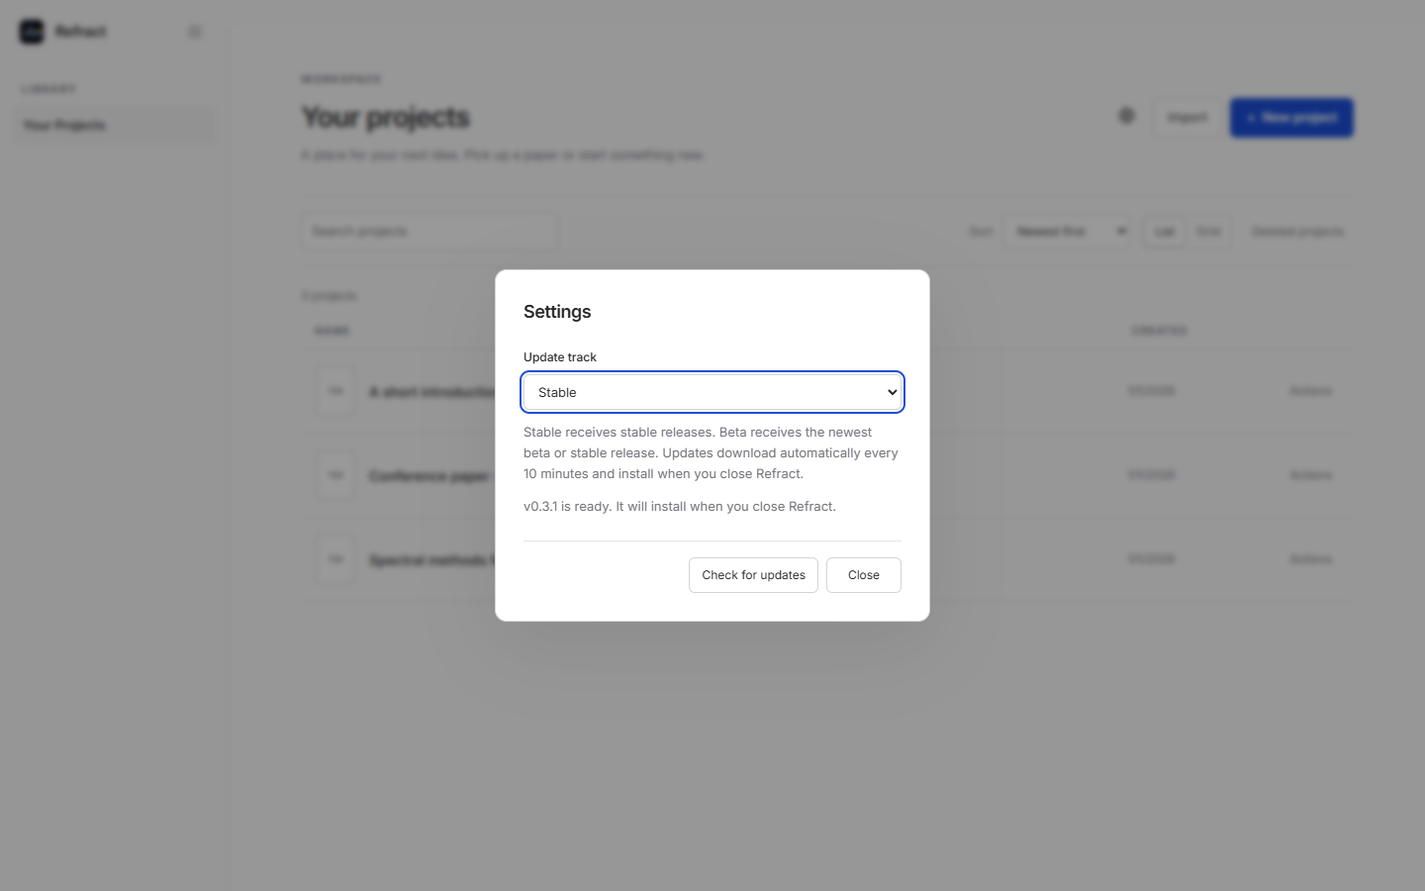
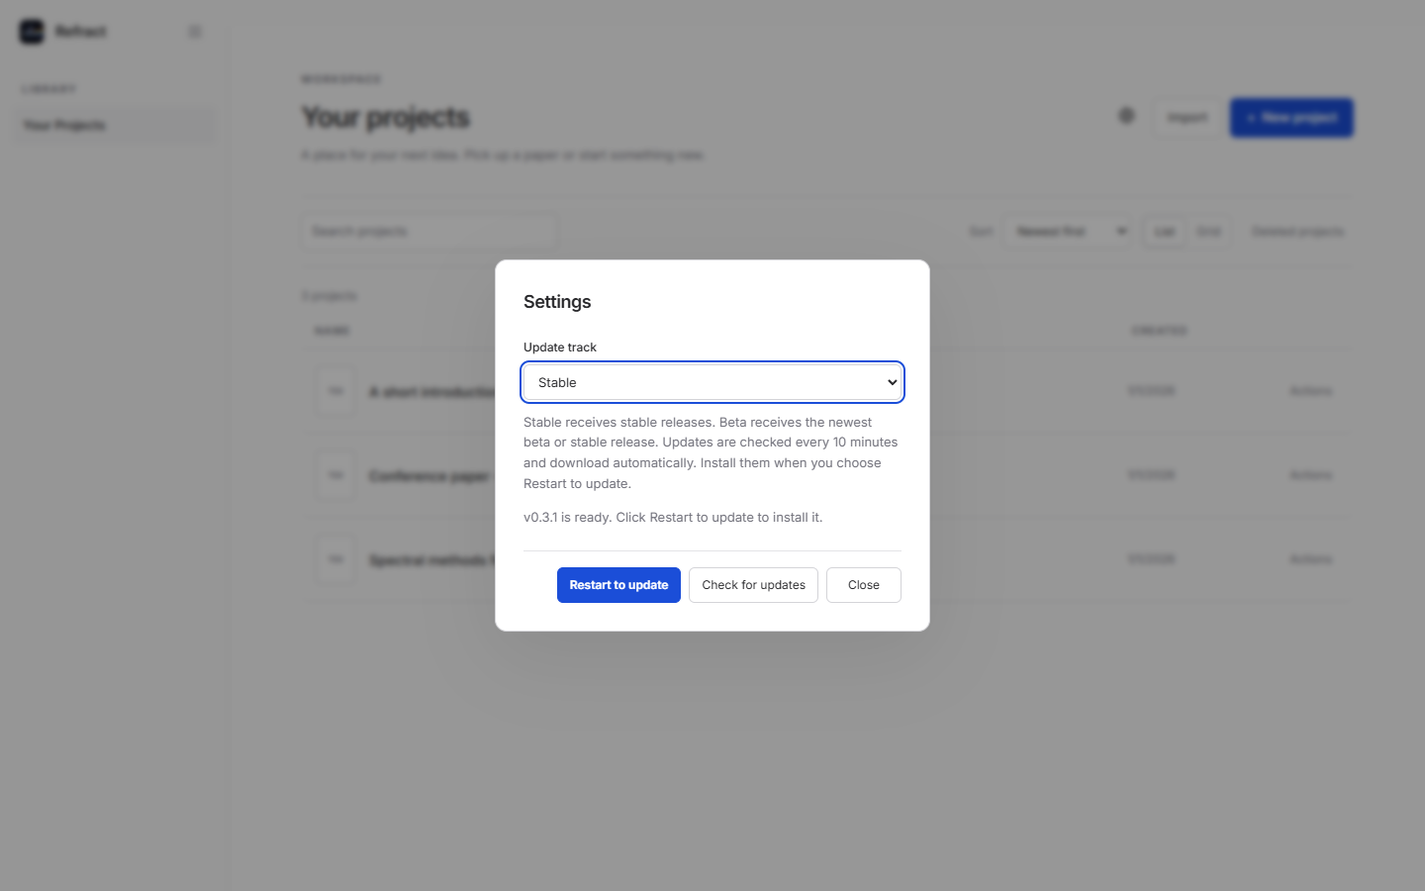
Require explicit Restart to update instead of installing on exit

Changed region(s): [[0.3438, 0.28, 0.6562, 0.5911], [0.3438, 0.6222, 0.6562, 0.7156]]

diff --git a/index.html b/index.html
@@ -3,4 +3,4 @@
 <body inert><header class="app-titlebar" aria-hidden="true"></header>
 <aside id="project-navigation" class="sidebar"><div class="brand"><button id="home" class="brand-home" aria-label="Your Projects"><img src="logo.png" alt=""><span>Refract</span></button><button class="icon" aria-label="Collapse sidebar" id="collapse">☰</button></div><div id="home-side"><div class="sidebar-label">Library</div><button class="nav selected">Your Projects</button></div><div id="project-side" hidden><button id="project-name" class="project-name"></button><div class="tabs"><button id="files-tab" aria-pressed="true" class="active">Files</button><button id="chats-tab" aria-pressed="false">Chats</button><span></span><button id="file-search-toggle" title="Search" aria-label="Search files">&#8981;</button><button id="add-file" aria-label="Add file or folder" title="Add file or folder">＋</button></div><div id="file-search" hidden><input id="file-search-input" aria-label="Search project" placeholder="Search"><div id="file-search-results"></div></div><div id="file-list"></div><div id="outline"><button id="outline-toggle" class="outline-label" aria-expanded="true">⌄ &nbsp;Outline</button><div id="outline-list"></div></div><div id="chat-list" hidden></div><div class="sidebar-footer"><button id="deleted-files">Deleted files</button> <button id="duplicate">Duplicate</button></div></div><div id="sidebar-resize" class="resize-handle vertical" role="separator" tabindex="0" aria-label="Resize sidebar" aria-orientation="vertical"></div></aside>
 <main><section id="projects"><header class="project-header"><div class="project-header-top"><div><div class="eyebrow">WORKSPACE</div><h1>Your projects</h1><p>A place for your next idea. Pick up a paper or start something new.</p></div><div class="project-header-actions"><button id="settings" class="icon settings-trigger" aria-label="Settings" title="Settings"><svg aria-hidden="true" viewBox="0 0 24 24" width="20" height="20" fill="none" stroke="currentColor" stroke-width="1.8" stroke-linecap="round" stroke-linejoin="round"><path d="m9 3-1 3-3 1-2 3 2 2-1 3 2 3 3-1 2 3h3l1-3 3-1 2-3-2-2 1-3-2-3-3 1-2-3z"/><circle cx="11.5" cy="11.5" r="3"/></svg></button><button id="import" class="secondary">Import</button><button id="new" class="primary">&#43; &nbsp;New project</button></div></div><div class="project-controls"><input id="search" placeholder="Search projects" aria-label="Search"><label for="project-sort">Sort</label><select id="project-sort" aria-label="Sort projects"><option value="newest">Newest first</option><option value="oldest">Oldest first</option><option value="name">Name</option><option value="edited">Recently edited</option></select><div class="view-switch" aria-label="Project view"><button id="list-view" aria-pressed="true" class="view-toggle selected" aria-label="List view" title="List view">List</button><button id="grid-view" aria-pressed="false" class="view-toggle" aria-label="Grid view" title="Grid view">Grid</button></div><button id="deleted-projects" class="plain">Deleted projects</button></div></header><div id="project-count" class="project-count" role="status" aria-live="polite"></div><div class="table-head"><span>Name</span><span>Created</span></div><div id="list"></div><div id="empty" class="project-empty" hidden><div class="empty-symbol" aria-hidden="true"><svg viewBox="0 0 24 24" fill="none" stroke="currentColor" stroke-width="1.6"><path d="M3 6.5h6l2 2h10v9.5a2 2 0 0 1-2 2H5a2 2 0 0 1-2-2z"/><path d="M12 11v6m-3-3h6"/></svg></div><h2>Make space for your ideas</h2><p>Create your first project to start writing and compiling LaTeX.</p><button id="start" class="primary">Start from Scratch</button></div><div id="no-results" class="project-empty" hidden><div class="empty-symbol" aria-hidden="true"><svg viewBox="0 0 24 24" fill="none" stroke="currentColor" stroke-width="1.6"><circle cx="10.5" cy="10.5" r="6.5"/><path d="m15.5 15.5 4.5 4.5"/></svg></div><h2>No projects found</h2><p>Try a different search or clear your filter.</p><button id="clear-search" class="secondary">Clear search</button></div></section>
-<section id="workspace" hidden><div id="editor-pane" class="editor-pane"><header class="editor-header"><div id="file-tabs" class="file-tabs"></div><span class="spacer"></span><button id="toggle-agent" class="plain" type="button" aria-label="Hide agent menu" aria-pressed="false" title="Hide agent menu">Hide agent</button><button id="tools" class="plain">Tools ▾</button></header><div class="editor-wrap"><div id="numbers" aria-hidden="true"></div><div id="image-preview" hidden><img id="project-image" alt="Project image"></div><div id="file-preview" hidden></div><div class="source-container"><pre id="highlight" aria-hidden="true"></pre><div id="active-line" aria-hidden="true"></div><textarea spellcheck="false" aria-label="Editor content" id="source"></textarea></div></div><div id="chat" class="chat"><div id="chat-resize" class="resize-handle horizontal" role="separator" tabindex="0" aria-label="Resize chat" aria-orientation="horizontal"></div><div class="chat-header"><div class="new-chat-action"><button id="new-chat" class="icon" aria-label="New chat">&#43;</button><span class="new-chat-tooltip" aria-hidden="true">New chat</span></div></div><div id="chat-messages"><strong>Welcome to Refract!</strong><p>Refract helps you write and refine LaTeX—and supports your research with explanations, proofs, citations, and summaries. Ask it anything or upload images.</p></div><div class="composer"><div id="attachment-list"></div><textarea id="chat-input" placeholder="Ask anything" aria-label="Ask anything"></textarea><div><button id="attach" class="icon" title="Upload files & photos" aria-label="Upload files & photos"><svg aria-hidden="true" viewBox="0 0 24 24" width="18" height="18" fill="none" stroke="currentColor" stroke-width="1.8" stroke-linecap="round" stroke-linejoin="round"><path d="M8 11V7a4 4 0 0 1 8 0v10a6 6 0 0 1-12 0V8m8 0v9a2 2 0 0 1-4 0v-6"/></svg></button><span></span><label class="provider-label" for="chat-provider">Provider</label><select id="chat-provider" aria-label="Chat provider"><option value="codex">Codex</option><option value="opencode">OpenCode</option></select><div id="model-picker"></div><button id="send" class="icon" title="Send" aria-label="Send"><svg aria-hidden="true" viewBox="0 0 24 24" width="16" height="16" fill="none" stroke="currentColor" stroke-width="3" stroke-linecap="round" stroke-linejoin="round"><path d="M5 12 12 4.5 19 12M12 4.5v15"/></svg></button></div></div></div></div><div id="workspace-resize" class="resize-handle workspace-handle" role="separator" tabindex="0" aria-label="Resize editor and PDF" aria-orientation="vertical"></div><div class="pdf-pane"><div id="pdf-content"><header><button id="compile" class="plain">Compile</button><span></span><button id="zoom-fit" class="icon" title="Zoom to fit">⛶</button><button id="download" class="icon" title="Download PDF">↓</button><button id="export-project" class="icon" title="Export project">⋯</button></header><div id="pdf-area"><div class="pdf-placeholder">PDF preview</div></div></div><div id="tools-panel" hidden><div class="tool-tabs"><button id="tool-info" aria-pressed="true">Project Info</button><button id="tool-versions" aria-pressed="false">Versions</button><button id="tool-comments" aria-pressed="false">Comments</button><button id="tool-logs" aria-pressed="false">Logs</button></div><div id="tool-body"></div></div></div></section></main><div id="folder-menu" class="file-menu" hidden><button id="folder-add">Add items</button><button id="folder-move">Move or rename folder</button><button id="folder-delete">Delete folder</button></div><div id="file-menu" class="file-menu" hidden><button id="file-rename">Rename file</button><button id="file-download">Download file</button><button id="file-delete">Delete file</button></div><dialog id="settings-dialog" aria-labelledby="settings-title"><h2 id="settings-title">Settings</h2><label for="update-track">Update track</label><select id="update-track"><option value="stable">Stable</option><option value="beta">Beta</option></select><p class="settings-description">Stable receives stable releases. Beta receives the newest beta or stable release. Updates download automatically every 10 minutes and install when you close Refract.</p><p id="update-status" role="status" aria-live="polite"></p><div class="dialog-actions"><button id="check-updates" class="secondary" type="button">Check for updates</button><button id="settings-close" class="secondary">Close</button></div></dialog><dialog id="project-trash-dialog" aria-labelledby="project-trash-dialog-title"><h2 id="project-trash-dialog-title">Deleted projects</h2><div id="project-trash-list"></div><div class="dialog-actions"><button id="project-trash-close">Close</button></div></dialog><dialog id="trash-dialog" aria-labelledby="trash-dialog-title"><h2 id="trash-dialog-title">Deleted files</h2><div id="trash-list"></div><div class="dialog-actions"><button id="trash-close">Close</button></div></dialog><dialog id="folder-move-dialog" aria-labelledby="folder-move-dialog-title"><form method="dialog"><h2 id="folder-move-dialog-title">Move or rename folder</h2><label for="folder-move-path">New project path</label><input id="folder-move-path" aria-label="New folder path" required><div class="dialog-actions"><button value="cancel" formnovalidate>Cancel</button><button value="move" class="primary">Move</button></div></form></dialog><dialog id="rename-file-dialog" aria-labelledby="rename-file-dialog-title"><form method="dialog"><h2 id="rename-file-dialog-title">Rename file</h2><input id="rename-file-name" aria-label="File name" required><div class="dialog-actions"><button value="cancel" formnovalidate>Cancel</button><button value="rename" class="primary">Rename</button></div></form></dialog><dialog id="rename-dialog" aria-labelledby="rename-dialog-title"><form method="dialog"><h2 id="rename-dialog-title">Rename project</h2><label for="rename-name">Project name</label><input id="rename-name" aria-label="Project name" required><div class="dialog-actions"><button value="cancel" formnovalidate>Cancel</button><button value="rename" class="primary">Rename</button></div></form></dialog><dialog id="file-dialog" aria-labelledby="file-dialog-title"><form method="dialog"><h2 id="file-dialog-title">New file</h2><label for="file-destination">Folder</label><select id="file-destination" aria-label="Destination folder"></select><label for="file-name">File name</label><input id="file-name" placeholder="e.g. references.bib" required><details class="file-alternatives"><summary>More file options</summary><div class="file-alternative-actions"><button value="folder">Create folder</button><button value="upload" formnovalidate>Upload file</button><button value="upload-folder" formnovalidate>Upload folder</button></div></details><div class="dialog-actions"><button value="cancel" formnovalidate>Cancel</button><button value="create" class="primary">Create file</button></div></form></dialog><dialog id="chat-image-dialog" class="chat-image-dialog" aria-label="Image preview"><button id="chat-image-close" type="button" aria-label="Close image preview">&times;</button><img id="chat-image-full" alt=""></dialog><script src="renderer.js"></script><script src="model-picker.js"></script></body></html>
+<section id="workspace" hidden><div id="editor-pane" class="editor-pane"><header class="editor-header"><div id="file-tabs" class="file-tabs"></div><span class="spacer"></span><button id="toggle-agent" class="plain" type="button" aria-label="Hide agent menu" aria-pressed="false" title="Hide agent menu">Hide agent</button><button id="tools" class="plain">Tools ▾</button></header><div class="editor-wrap"><div id="numbers" aria-hidden="true"></div><div id="image-preview" hidden><img id="project-image" alt="Project image"></div><div id="file-preview" hidden></div><div class="source-container"><pre id="highlight" aria-hidden="true"></pre><div id="active-line" aria-hidden="true"></div><textarea spellcheck="false" aria-label="Editor content" id="source"></textarea></div></div><div id="chat" class="chat"><div id="chat-resize" class="resize-handle horizontal" role="separator" tabindex="0" aria-label="Resize chat" aria-orientation="horizontal"></div><div class="chat-header"><div class="new-chat-action"><button id="new-chat" class="icon" aria-label="New chat">&#43;</button><span class="new-chat-tooltip" aria-hidden="true">New chat</span></div></div><div id="chat-messages"><strong>Welcome to Refract!</strong><p>Refract helps you write and refine LaTeX—and supports your research with explanations, proofs, citations, and summaries. Ask it anything or upload images.</p></div><div class="composer"><div id="attachment-list"></div><textarea id="chat-input" placeholder="Ask anything" aria-label="Ask anything"></textarea><div><button id="attach" class="icon" title="Upload files & photos" aria-label="Upload files & photos"><svg aria-hidden="true" viewBox="0 0 24 24" width="18" height="18" fill="none" stroke="currentColor" stroke-width="1.8" stroke-linecap="round" stroke-linejoin="round"><path d="M8 11V7a4 4 0 0 1 8 0v10a6 6 0 0 1-12 0V8m8 0v9a2 2 0 0 1-4 0v-6"/></svg></button><span></span><label class="provider-label" for="chat-provider">Provider</label><select id="chat-provider" aria-label="Chat provider"><option value="codex">Codex</option><option value="opencode">OpenCode</option></select><div id="model-picker"></div><button id="send" class="icon" title="Send" aria-label="Send"><svg aria-hidden="true" viewBox="0 0 24 24" width="16" height="16" fill="none" stroke="currentColor" stroke-width="3" stroke-linecap="round" stroke-linejoin="round"><path d="M5 12 12 4.5 19 12M12 4.5v15"/></svg></button></div></div></div></div><div id="workspace-resize" class="resize-handle workspace-handle" role="separator" tabindex="0" aria-label="Resize editor and PDF" aria-orientation="vertical"></div><div class="pdf-pane"><div id="pdf-content"><header><button id="compile" class="plain">Compile</button><span></span><button id="zoom-fit" class="icon" title="Zoom to fit">⛶</button><button id="download" class="icon" title="Download PDF">↓</button><button id="export-project" class="icon" title="Export project">⋯</button></header><div id="pdf-area"><div class="pdf-placeholder">PDF preview</div></div></div><div id="tools-panel" hidden><div class="tool-tabs"><button id="tool-info" aria-pressed="true">Project Info</button><button id="tool-versions" aria-pressed="false">Versions</button><button id="tool-comments" aria-pressed="false">Comments</button><button id="tool-logs" aria-pressed="false">Logs</button></div><div id="tool-body"></div></div></div></section></main><div id="folder-menu" class="file-menu" hidden><button id="folder-add">Add items</button><button id="folder-move">Move or rename folder</button><button id="folder-delete">Delete folder</button></div><div id="file-menu" class="file-menu" hidden><button id="file-rename">Rename file</button><button id="file-download">Download file</button><button id="file-delete">Delete file</button></div><dialog id="settings-dialog" aria-labelledby="settings-title"><h2 id="settings-title">Settings</h2><label for="update-track">Update track</label><select id="update-track"><option value="stable">Stable</option><option value="beta">Beta</option></select><p class="settings-description">Stable receives stable releases. Beta receives the newest beta or stable release. Updates are checked every 10 minutes and download automatically. Install them when you choose Restart to update.</p><p id="update-status" role="status" aria-live="polite"></p><div class="dialog-actions"><button id="restart-update" class="primary" type="button" hidden>Restart to update</button><button id="check-updates" class="secondary" type="button">Check for updates</button><button id="settings-close" class="secondary">Close</button></div></dialog><dialog id="project-trash-dialog" aria-labelledby="project-trash-dialog-title"><h2 id="project-trash-dialog-title">Deleted projects</h2><div id="project-trash-list"></div><div class="dialog-actions"><button id="project-trash-close">Close</button></div></dialog><dialog id="trash-dialog" aria-labelledby="trash-dialog-title"><h2 id="trash-dialog-title">Deleted files</h2><div id="trash-list"></div><div class="dialog-actions"><button id="trash-close">Close</button></div></dialog><dialog id="folder-move-dialog" aria-labelledby="folder-move-dialog-title"><form method="dialog"><h2 id="folder-move-dialog-title">Move or rename folder</h2><label for="folder-move-path">New project path</label><input id="folder-move-path" aria-label="New folder path" required><div class="dialog-actions"><button value="cancel" formnovalidate>Cancel</button><button value="move" class="primary">Move</button></div></form></dialog><dialog id="rename-file-dialog" aria-labelledby="rename-file-dialog-title"><form method="dialog"><h2 id="rename-file-dialog-title">Rename file</h2><input id="rename-file-name" aria-label="File name" required><div class="dialog-actions"><button value="cancel" formnovalidate>Cancel</button><button value="rename" class="primary">Rename</button></div></form></dialog><dialog id="rename-dialog" aria-labelledby="rename-dialog-title"><form method="dialog"><h2 id="rename-dialog-title">Rename project</h2><label for="rename-name">Project name</label><input id="rename-name" aria-label="Project name" required><div class="dialog-actions"><button value="cancel" formnovalidate>Cancel</button><button value="rename" class="primary">Rename</button></div></form></dialog><dialog id="file-dialog" aria-labelledby="file-dialog-title"><form method="dialog"><h2 id="file-dialog-title">New file</h2><label for="file-destination">Folder</label><select id="file-destination" aria-label="Destination folder"></select><label for="file-name">File name</label><input id="file-name" placeholder="e.g. references.bib" required><details class="file-alternatives"><summary>More file options</summary><div class="file-alternative-actions"><button value="folder">Create folder</button><button value="upload" formnovalidate>Upload file</button><button value="upload-folder" formnovalidate>Upload folder</button></div></details><div class="dialog-actions"><button value="cancel" formnovalidate>Cancel</button><button value="create" class="primary">Create file</button></div></form></dialog><dialog id="chat-image-dialog" class="chat-image-dialog" aria-label="Image preview"><button id="chat-image-close" type="button" aria-label="Close image preview">&times;</button><img id="chat-image-full" alt=""></dialog><script src="renderer.js"></script><script src="model-picker.js"></script></body></html>

diff --git a/renderer.ts b/renderer.ts
@@ -1827,9 +1827,13 @@ const settingsDialog = document.querySelector<HTMLDialogElement>('#settings-dial
 const updateTrack = document.querySelector<HTMLSelectElement>('#update-track')!;
 const updateStatus = document.querySelector<HTMLParagraphElement>('#update-status')!;
 const checkUpdates = document.querySelector<HTMLButtonElement>('#check-updates')!;
+const restartUpdate = document.querySelector<HTMLButtonElement>('#restart-update')!;
+let restartingUpdate = false;
 let manualUpdateCheck = false;
 let settingsPoll: ReturnType<typeof setInterval> | undefined;
-function renderUpdateStatus(status: {track: 'stable' | 'beta'; message: string}): void {
+function renderUpdateStatus(status: {track: 'stable' | 'beta'; phase: string; message: string}): void {
+  restartUpdate.hidden = status.phase !== 'ready' && status.phase !== 'restarting';
+  restartUpdate.disabled = restartingUpdate || status.phase !== 'ready' || updateTrack.disabled;
   updateTrack.value = status.track; updateStatus.textContent = status.message;
 }
 async function refreshUpdateStatus(): Promise<void> {
@@ -1843,17 +1847,32 @@ $('#settings').onclick = () => {
 $('#settings-close').onclick = () => settingsDialog.close();
 settingsDialog.addEventListener('close', () => { clearInterval(settingsPoll); $('#settings').focus(); });
 updateTrack.onchange = async () => {
+  restartUpdate.hidden = true;
   updateTrack.disabled = true; checkUpdates.disabled = true;
   updateStatus.textContent = 'Saving track and checking for updates...';
   try { renderUpdateStatus(await store.updateTrack(updateTrack.value)); }
   catch { await refreshUpdateStatus(); updateStatus.textContent = 'Could not save the update track. Please try again.'; }
-  finally { updateTrack.disabled = false; checkUpdates.disabled = false; }
+  finally { updateTrack.disabled = false; checkUpdates.disabled = false; await refreshUpdateStatus(); }
 };
 
 checkUpdates.onclick = async () => {
+  restartUpdate.disabled = true;
   checkUpdates.disabled = true; updateTrack.disabled = true; manualUpdateCheck = true;
   updateStatus.textContent = 'Checking for updates...';
   try { renderUpdateStatus(await store.updateCheck()); }
   catch { updateStatus.textContent = 'Could not check for updates. Please try again.'; }
-  finally { checkUpdates.disabled = false; updateTrack.disabled = false; manualUpdateCheck = false; }
+  finally { checkUpdates.disabled = false; updateTrack.disabled = false; manualUpdateCheck = false; await refreshUpdateStatus(); }
+};
+
+restartUpdate.onclick = async () => {
+  if (restartingUpdate) return;
+  restartingUpdate = true;
+  restartUpdate.disabled = true; checkUpdates.disabled = true; updateTrack.disabled = true;
+  updateStatus.textContent = 'Saving your work and restarting to update...';
+  try { await store.updateRestart(); }
+  catch {
+    restartingUpdate = false; checkUpdates.disabled = false; updateTrack.disabled = false;
+    await refreshUpdateStatus();
+    updateStatus.textContent = 'Could not restart to update. Please try again.';
+  }
 };

diff --git a/style.css b/style.css
@@ -2839,3 +2839,5 @@ dialog .dialog-actions {
 #settings-dialog label { display:block; margin-bottom:8px; font-weight:500; }
 #update-track { width:100%; }
 .settings-description, #update-status { font-size:13px; line-height:1.6; color:var(--muted); }
+
+#settings-dialog .dialog-actions { flex-wrap:wrap; }

diff --git a/docs/updates/README.md b/docs/updates/README.md
@@ -1,6 +1,6 @@
 # Application updates
 
-The installed Windows app checks Savage1001/refract releases at startup and every ten minutes. It downloads newer versions automatically, verifies the installer through electron-updater (including the metadata SHA-512 checksum), and installs silently on normal app exit after the existing save/compiler/assistant shutdown barrier. Development runs never download or install updates.
+The installed Windows app checks Savage1001/refract releases at startup and every ten minutes. It downloads newer versions automatically, verifies the installer through electron-updater (including the metadata SHA-512 checksum), and waits for the user to click **Restart to update** in Settings before installing and relaunching. The existing save/compiler/assistant shutdown barrier finishes before installation starts. Closing the app normally never installs an update. Development runs never download or install updates.
 
 The gear beside Import on the project home page opens Settings. Use **Check for updates** to run a check immediately on the selected track; repeated clicks are disabled while it checks or downloads. Stable is the default and excludes prereleases. Beta selects the highest semantic version among stable releases and GitHub prereleases tagged `vX.Y.Z-beta.N`. Drafts, alpha/RC releases, and older/equal versions are ignored. Switching from a beta to stable waits for a newer stable release; it never downgrades. The preference is stored in the app data directory and survives restart. Failed checks or downloads retry on the next interval.
 
@@ -12,4 +12,4 @@ Release downloads use the public repository without a bundled credential. A priv
 
 ## Evidence
 
-`home-settings-icon.png` shows the home-only gear; `settings-menu.png` shows Beta selected. `update-available.png` shows a newer version downloading; `update-ready.png` shows the downloaded update and the instruction to close Refract to install it. These use the real renderer with simulated update status and isolated sample data in headless Chromium (example version v0.3.1, not a published release). Applying an update happens on app exit; there is no separate apply dialog. Tests cover semantic release ordering, saved preferences, retries, failed downloads, metadata mismatch, switching tracks while a download is in flight, and home-only settings visibility. A full live installed-app upgrade still requires a newer published release with updater metadata.
+`home-settings-icon.png` shows the home-only gear; `settings-menu.png` shows Beta selected. `update-available.png` shows a newer version downloading; `update-ready.png` shows the downloaded update and the **Restart to update** button. These use the real renderer with simulated update status and isolated sample data in headless Chromium (example version v0.3.1, not a published release). The restart button appears only when a downloaded update is ready; Settings Close and normal app exits never apply updates. Tests cover semantic release ordering, saved preferences, retries, failed downloads, metadata mismatch, switching tracks while a download is in flight, and home-only settings visibility. A full live installed-app upgrade still requires a newer published release with updater metadata.

diff --git a/TODO.md b/TODO.md
@@ -59,4 +59,4 @@ v0.1.11 is published with all recent merges and its Windows installer. The relea
 
 - [x] **RF-028** Polish action icons and sidebar tools, consolidate workspace layouts, move trust details out of the breadcrumb, and address whole-app visual and keyboard review findings. Before/after evidence and independent review results are recorded in docs/ui-polish/README.md.
 
-- [x] **RF-030** Check GitHub releases every 10 minutes, download and install updates on app exit, and provide a persisted Stable/Beta track setting and manual Check for updates button only on the project home menu.
+- [x] **RF-030** Check GitHub releases every 10 minutes, download updates automatically and install only through Restart to update in Settings, and provide a persisted Stable/Beta track setting and manual Check for updates button only on the project home menu.
